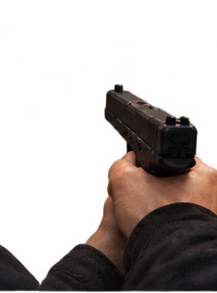
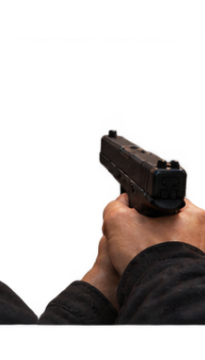
Use supplied handgun animation frames with consistent canvas

Changed region(s): [[0.0, 0.2765, 1.0, 1.0], [0.7024, 0.5222, 0.8195, 0.5836], [0.761, 0.7986, 0.8195, 0.8294]]

diff --git a/tools/test_handgun_animation.py b/tools/test_handgun_animation.py
@@ -1,0 +1,42 @@
+"""Validate uploaded frames and exercise sandbox state transitions without a GPU."""
+from pathlib import Path
+from types import SimpleNamespace
+import textwrap
+from PIL import Image
+
+ROOT = Path(__file__).resolve().parents[1]
+source = (ROOT / "game/shooting_test.rpy").read_text()
+code = textwrap.dedent(source.split("init python:\n", 1)[1].split("\nstyle ", 1)[0])
+code = code.replace("import pygame", "# pygame supplied by test")
+clock = [0.0]
+noop = lambda *args, **kwargs: None
+renpy = SimpleNamespace(Displayable=object, displayable=lambda path: path,
+    get_game_runtime=lambda: clock[0], redraw=noop,
+    music=SimpleNamespace(register_channel=noop, play=noop))
+scope = {"renpy": renpy, "pygame": SimpleNamespace()}
+exec(compile(code, "shooting_test.rpy", "exec"), scope)
+for index in range(20):
+    with Image.open(ROOT / ("game/images/shooting_test/frames/handgun-%02d.png" % index)) as frame:
+        assert frame.mode == "RGBA"
+        assert frame.height == 360 and frame.width in (204, 205)
+        assert frame.getchannel("A").getextrema()[0] == 0
+for name in ("SHOOTING_TEST_FIRE_SEQUENCE", "SHOOTING_TEST_RELOAD_SEQUENCE"):
+    sequence = scope[name]
+    assert all(0 <= frame < 20 for frame in sequence)
+    assert sequence[-1] == 0
+sandbox = scope["ShelterShootingSandbox"]()
+sandbox.fire()
+assert sandbox.ammo == 7 and sandbox.mode == "fire"
+sandbox.fire()
+assert sandbox.shots == 1
+clock[0] = .5
+sandbox.tick()
+assert sandbox.mode == "idle"
+sandbox.reload()
+assert sandbox.mode == "reload"
+sandbox.fire()
+assert sandbox.shots == 1
+clock[0] = 2.0
+sandbox.tick()
+assert sandbox.mode == "idle" and sandbox.ammo == 8
+print("PASS: 20 RGBA frames, animation ranges, fire lockout, reload and idle return")
